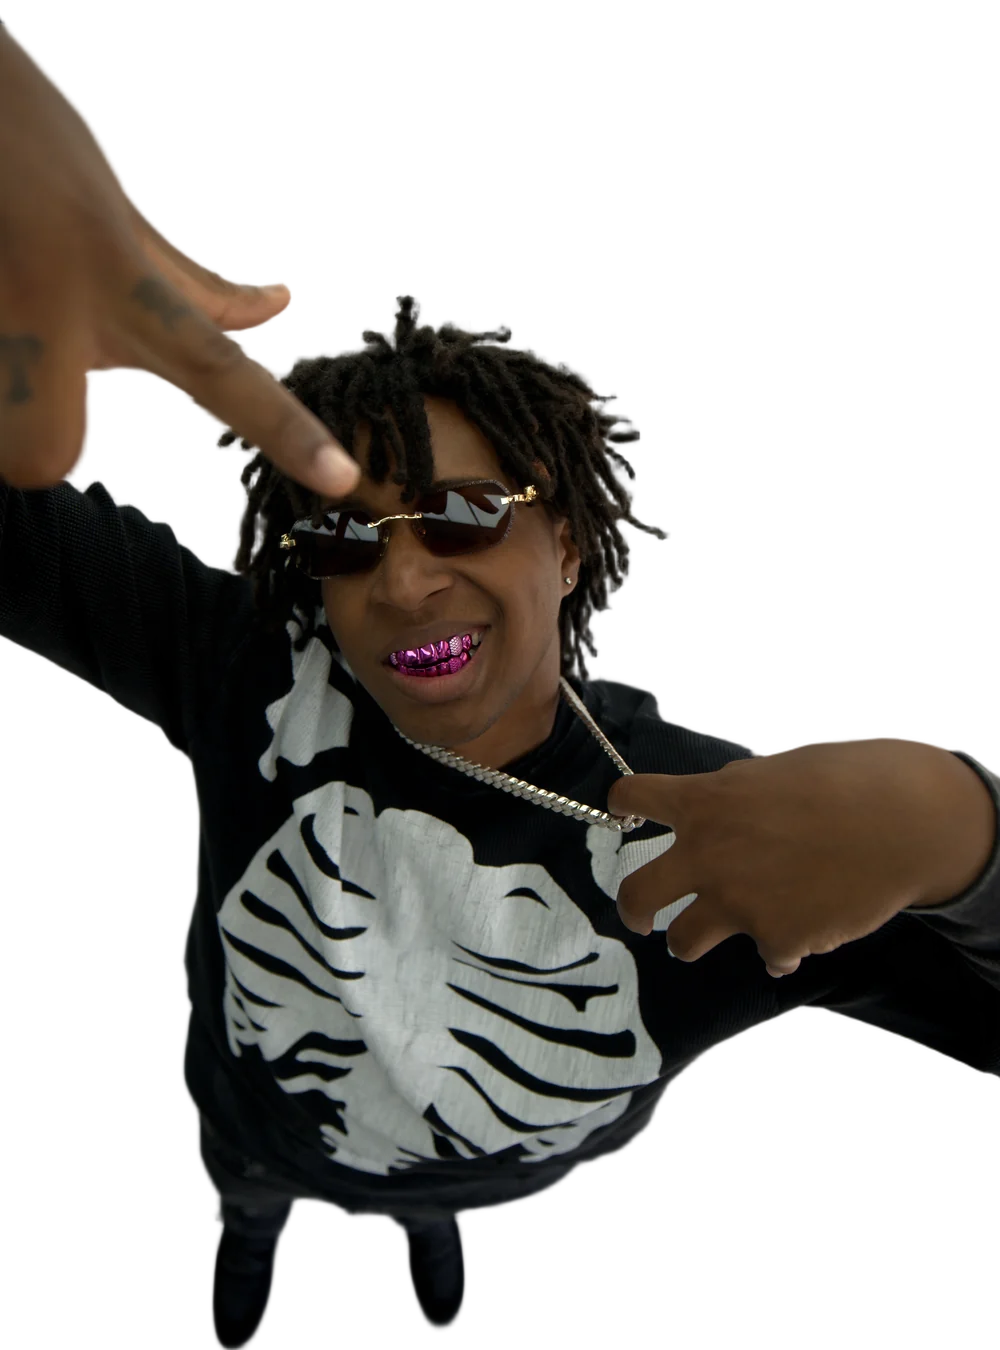
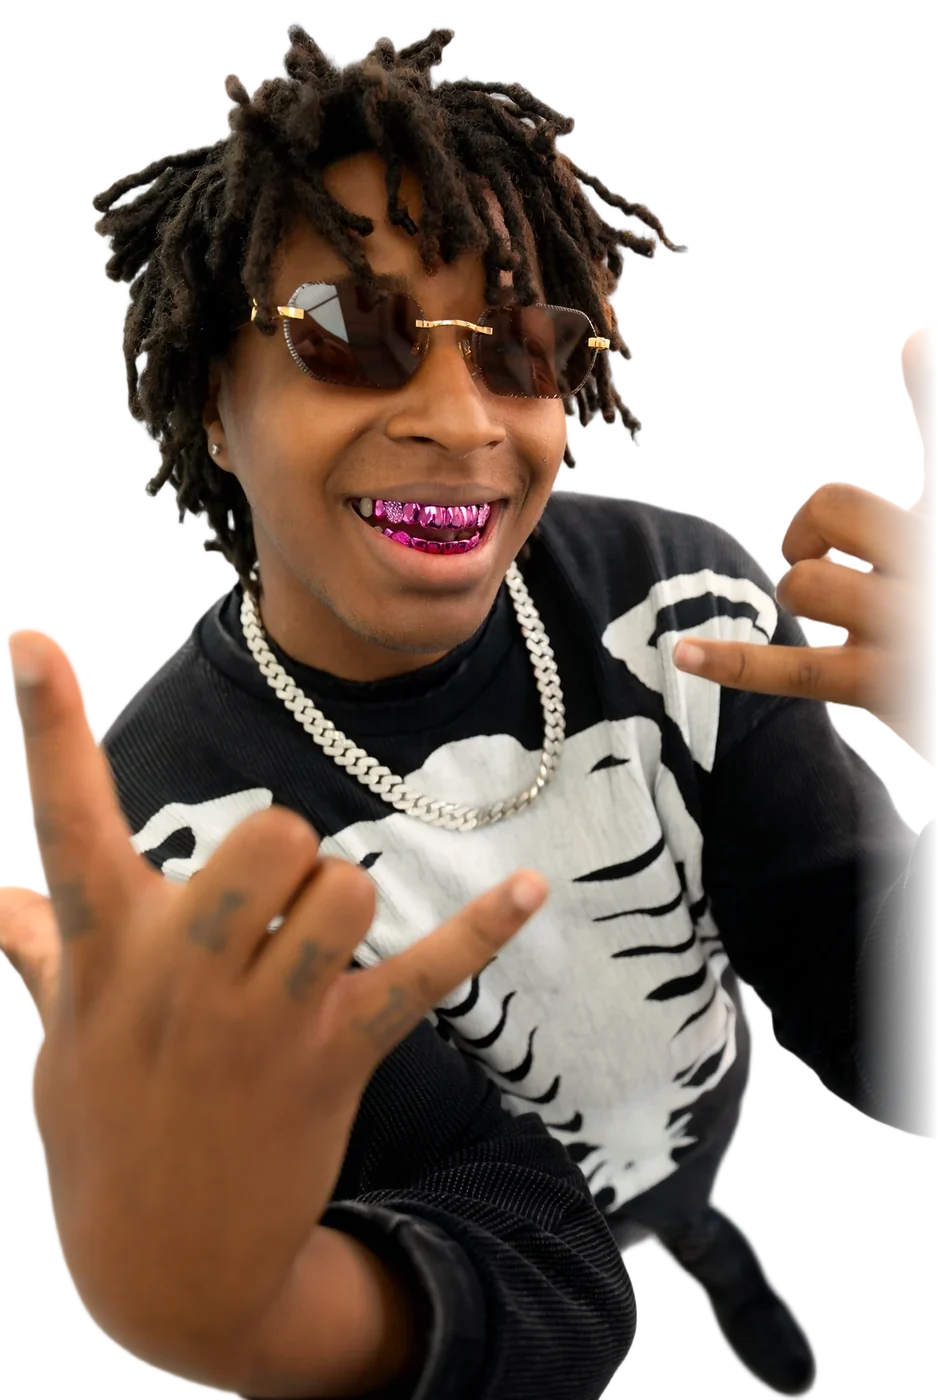
Swap in the client's new guest photos (recut, soft cropped edges)
Claude-Session: https://claude.ai/code/session_01RMZhts2YgBAwkXNxig8vtL

diff --git a/index.html b/index.html
@@ -118,7 +118,7 @@
   .flow { position: relative; height: clamp(380px, 40vw, 540px); perspective: 1400px; touch-action: pan-y; user-select: none; }
   .g-card { position: absolute; left: 50%; bottom: 0; width: clamp(240px, 30vw, 380px); margin-left: calc(clamp(240px, 30vw, 380px) / -2); padding: 0; border: 0; background: none; cursor: pointer; transition: transform .7s var(--ease), opacity .7s var(--ease), filter .7s; text-align: center; }
   .g-card .ring { position: absolute; left: 6%; right: 6%; bottom: 12%; aspect-ratio: 1; border-radius: 50%; background: radial-gradient(circle, rgba(255, 214, 120, .35), rgba(226, 150, 40, .08) 60%, transparent 70%); border: 1px solid rgba(255, 214, 120, .35); }
-  .g-card img { position: relative; width: 100%; height: clamp(320px, 35vw, 470px); object-fit: contain; object-position: bottom; filter: drop-shadow(0 0 1px rgba(255, 220, 150, .6)) drop-shadow(0 20px 30px rgba(0, 0, 0, .6)); }
+  .g-card img { -webkit-mask-image: linear-gradient(to top, transparent 0, #000 14%); mask-image: linear-gradient(to top, transparent 0, #000 14%); position: relative; width: 100%; height: clamp(320px, 35vw, 470px); object-fit: contain; object-position: bottom; filter: drop-shadow(0 0 1px rgba(255, 220, 150, .6)) drop-shadow(0 20px 30px rgba(0, 0, 0, .6)); }
   .g-card .tag { position: relative; display: inline-block; margin-top: -26px; padding: 8px 16px; border-radius: 999px; background: rgba(10, 10, 11, .88); border: 1px solid rgba(255, 214, 120, .4); font: italic 800 clamp(15px, 1.5vw, 19px)/1 var(--title); text-transform: uppercase; color: var(--fg); white-space: nowrap; }
   .g-card .tag small { display: block; margin-top: 4px; font: 600 10px var(--sans); letter-spacing: .16em; color: var(--gold); }
   .g-card[data-pos="0"] { transform: translateX(0) scale(1); z-index: 3; }
@@ -356,9 +356,9 @@
       <p>Three Houston names, one day in Sharpstown. Tap a face to watch their video.</p>
     </div>
     <div class="flow" id="flow" data-reveal>
-      <button class="g-card" type="button"><span class="ring"></span><img src="/assets/kol-khalilvegas-cut.webp" alt="Khalilvegas in a skeleton sweater and iced chain, flashing a pink grill" width="1000" height="1350"><span class="tag">Khalilvegas<small>Houston rapper</small></span></button>
-      <button class="g-card" type="button"><span class="ring"></span><img src="/assets/kol-toxicissue-cut.webp" alt="toxicissue flashing her pink grill and throwing up hand signs" width="1000" height="1172"><span class="tag">toxicissue<small>Houston rapper</small></span></button>
-      <button class="g-card" type="button"><span class="ring"></span><img src="/assets/kol-xavier-toliver-cut.webp" alt="Xavier Toliver in his Huskies number 13 jersey with a black grill, holding his helmet" width="1000" height="1388"><span class="tag">Xavier Toliver<small>Football player</small></span></button>
+      <button class="g-card" type="button"><span class="ring"></span><img src="/assets/kol-khalilvegas-cut.webp" alt="Khalilvegas in a skeleton sweater, gold-framed shades and an iced chain, smiling with a pink grill and throwing up hand signs" width="938" height="1400"><span class="tag">Khalilvegas<small>Houston rapper</small></span></button>
+      <button class="g-card" type="button"><span class="ring"></span><img src="/assets/kol-toxicissue-cut.webp" alt="toxicissue flashing her pink grill and throwing up hand signs" width="608" height="716"><span class="tag">toxicissue<small>Houston rapper</small></span></button>
+      <button class="g-card" type="button"><span class="ring"></span><img src="/assets/kol-xavier-toliver-cut.webp" alt="Xavier Toliver in his Huskies number 13 jersey and white gloves, tossing a football" width="1000" height="1323"><span class="tag">Xavier Toliver<small>Football player</small></span></button>
     </div>
     <div class="flow-nav">
       <button class="arr" type="button" data-flow="-1" aria-label="Previous guest">←</button>
